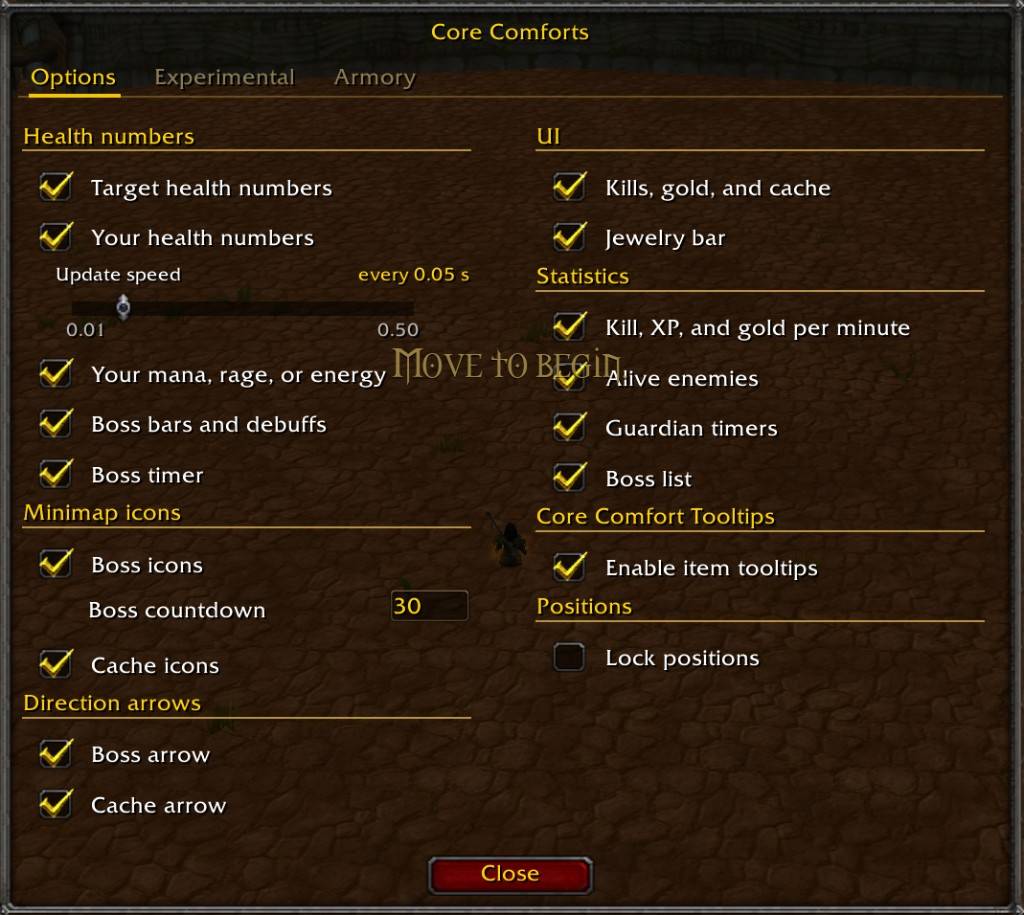
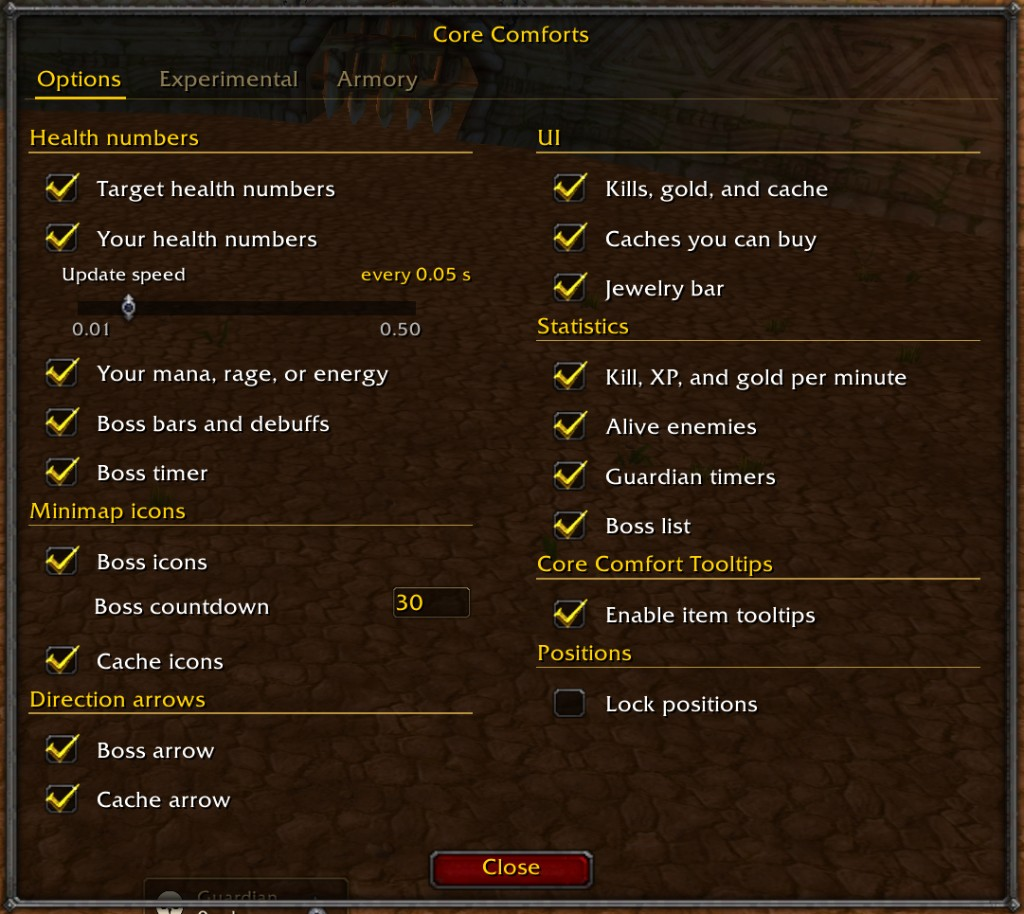
Show Caches you can buy on the options tab instead of experimental.

diff --git a/README.md b/README.md
@@ -32,11 +32,11 @@ Luck, and the chance of rare, epic, and legendary spells and amulets.
 
 ![Luck and card chances](screenshots/luck.png)
 
-The options window. Each option can be turned on or off.
+The options window. Each option can be turned on or off. Caches you can buy is under UI, just below kills, gold, and cache, and it starts on.
 
 ![Core Comforts options](screenshots/options.jpg)
 
-Experimental options for damage-over-time estimates, caches you can buy, luck, decimal places, and guardian and boss nameplates. Decimal places are not very useful, because the game appears to round to one decimal place. Nameplates are only offered here.
+Experimental options for damage-over-time estimates, luck, decimal places, and guardian and boss nameplates. Decimal places are not very useful, because the game appears to round to one decimal place. Nameplates are only offered here.
 
 ![Experimental options](screenshots/experimental.png)
 
